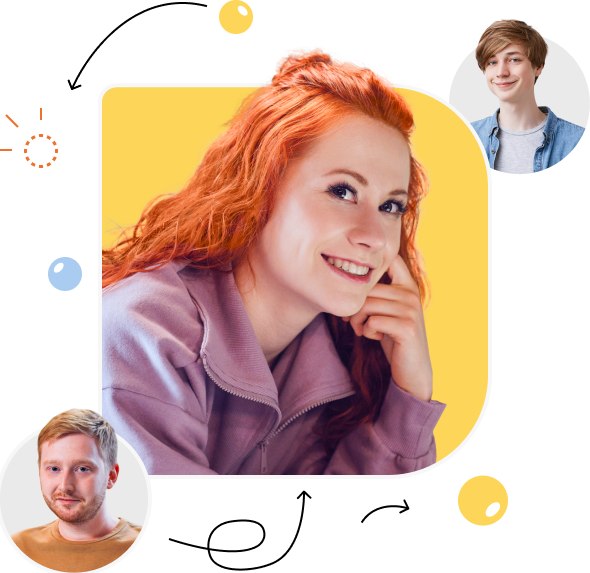
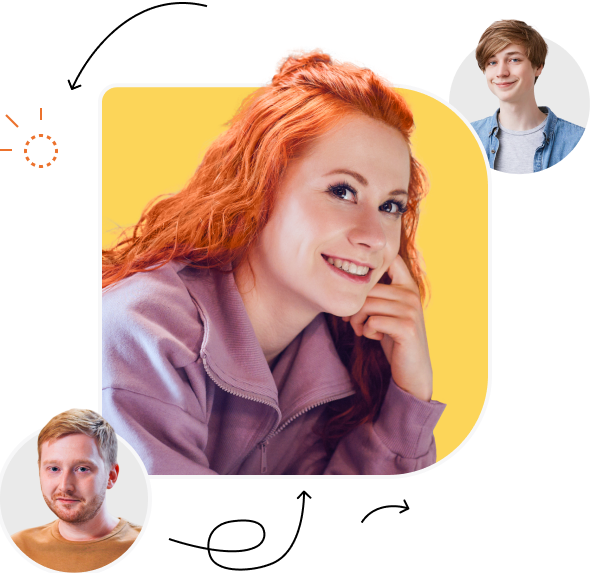
animation

Changed region(s): [[0.7627, 0.8307, 0.8847, 0.9197], [0.061, 0.445, 0.1525, 0.5044], [0.3661, 0.0, 0.4271, 0.0593]]

diff --git a/src/features/roles/roles-image.tsx b/src/features/roles/roles-image.tsx
@@ -1,0 +1,90 @@
+import { useEffect, useRef } from "react";
+import Image from "next/image";
+import RolesPeopleMentorImage from "@shared/assets/images/roles-peoples-mentor.png";
+import RolesPeopleReviewerImage from "@shared/assets/images/roles-peoples-reviewer.png";
+import { Role } from "./utils";
+
+import BubbleOneMentorImage from "@shared/assets/images/bubble-one-mentor.svg";
+import BubbleTwoMentorImage from "@shared/assets/images/bubble-two-mentor.svg";
+import BubbleThreeMentorImage from "@shared/assets/images/bubble-three-mentor.svg";
+
+import BubbleOneReviewerImage from "@shared/assets/images/bubble-one-reviewer.svg";
+import BubbleTwoReviewerImage from "@shared/assets/images/bubble-two-reviewer.svg";
+import BubbleThreeReviewerImage from "@shared/assets/images/bubble-three-reviewer.svg";
+
+import styles from "./roles-image.module.scss";
+import { cn } from "@shared/utils";
+
+export const RolesImage = (props: {
+  activeTab: Role.mentor | Role.reviewer;
+}) => {
+  const rolesImageRef = useRef<HTMLDivElement>(null);
+
+  useEffect(() => {
+    const observer = new IntersectionObserver(
+      ([entry]) => {
+        console.log({ entry });
+        rolesImageRef.current?.style.setProperty(
+          "--intersection-ratio",
+          entry.intersectionRatio.toString()
+        );
+      },
+      {
+        rootMargin: "-20% 0px -20% 0px",
+        threshold: new Array(100)
+          .fill(0)
+          .map((_, index, values) => index / values.length),
+      }
+    );
+
+    if (rolesImageRef.current) {
+      observer.observe(rolesImageRef.current);
+    }
+
+    return () => {
+      if (rolesImageRef.current) {
+        observer.unobserve(rolesImageRef.current);
+      }
+    };
+  }, []);
+
+  return (
+    <div ref={rolesImageRef} className={styles.rolesImage}>
+      {props.activeTab === Role.mentor && (
+        <Image src={RolesPeopleMentorImage} alt="" />
+      )}
+
+      {props.activeTab === Role.reviewer && (
+        <Image src={RolesPeopleReviewerImage} alt="" />
+      )}
+
+      {props.activeTab === Role.mentor && (
+        <>
+          <BubbleOneMentorImage
+            className={cn([styles.mentor, styles.bubble1])}
+          />
+          <BubbleTwoMentorImage
+            className={cn([styles.mentor, styles.bubble2])}
+          />
+          <BubbleThreeMentorImage
+            className={cn([styles.mentor, styles.bubble3])}
+          />
+        </>
+      )}
+
+      {props.activeTab === Role.reviewer && (
+        <>
+          <BubbleOneReviewerImage
+            className={cn([styles.reviewer, styles.bubble1])}
+          />
+          <BubbleTwoReviewerImage
+            className={cn([styles.reviewer, styles.bubble2])}
+          />
+          <BubbleThreeReviewerImage
+            className={cn([styles.reviewer, styles.bubble3])}
+          />
+        </>
+      )}
+    </div>
+  );
+};

diff --git a/src/features/roles/roles.tsx b/src/features/roles/roles.tsx
@@ -1,13 +1,10 @@
 import { FC, useState } from "react";
-import Image from "next/image";
-import RolesPeopleMentorImage from "@shared/assets/images/roles-peoples-mentor.png";
-import RolesPeopleReviewerImage from "@shared/assets/images/roles-peoples-reviewer.png";
 import RolesArrowImage from "@shared/assets/images/roles-arrow.svg";
-import { Typography } from "@shared/components";
-import { Tabs } from "@shared/components";
+import { Tabs, Typography } from "@shared/components";
 import { makeRolesTabsMap, Role } from "./utils";
 
 import styles from "./roles.module.scss";
+import { RolesImage } from "@features/roles/roles-image";
 
 export const tabs = makeRolesTabsMap([Role.mentor, Role.reviewer]);
 
@@ -19,15 +16,7 @@ export const Roles: FC = () => {
       <div className={styles.roles__arrow}>
         <RolesArrowImage />
       </div>
-      <div className={styles.roles__image}>
-        {activeTab === Role.mentor && (
-          <Image src={RolesPeopleMentorImage} alt="" />
-        )}
-
-        {activeTab === Role.reviewer && (
-          <Image src={RolesPeopleReviewerImage} alt="" />
-        )}
-      </div>
+      <RolesImage activeTab={activeTab} />
 
       <div className={styles.roles__tabs}>
         <Typography.Header className={styles.roles__header} level={2}>

diff --git a/src/features/roles/roles-image.module.scss b/src/features/roles/roles-image.module.scss
@@ -1,0 +1,38 @@
+@import "src/styles/mixins";
+
+.rolesImage {
+  position: relative;
+  height: 573px;
+
+  .bubble1, .bubble2, .bubble3 {
+    position: absolute;
+  }
+
+  .reviewer {
+    &.bubble1 {
+      @include bubbleAnimate(33px, 0px, 166px, 219px);
+    }
+
+    &.bubble2 {
+      @include bubbleAnimate(294px, 257px, 83px, 48px);
+    }
+
+    &.bubble3 {
+      @include bubbleAnimate(426px, 475px, 503px, 458px);
+    }
+  }
+
+  .mentor {
+    &.bubble1 {
+      @include bubbleAnimate(36px, 0px, 145px, 219px);
+    }
+
+    &.bubble2 {
+      @include bubbleAnimate(292px, 257px, 75px, 48px);
+    }
+
+    &.bubble3 {
+      @include bubbleAnimate(449px, 475px, 471px, 458px);
+    }
+  }
+}

diff --git a/src/styles/_mixins.scss b/src/styles/_mixins.scss
@@ -1,0 +1,7 @@
+@mixin bubbleAnimate($topStart, $topEnd, $leftStart, $leftEnd) {
+  $topDiff: $topEnd - $topStart;
+  $leftDiff: $leftEnd - $leftStart;
+
+  top: calc($topStart + $topDiff * var(--intersection-ratio));
+  left: calc($leftStart + $leftDiff * var(--intersection-ratio));
+}

diff --git a/src/features/roles/roles.module.scss b/src/features/roles/roles.module.scss
@@ -11,10 +11,6 @@
     height: 54px;
   }
 
-  &__image {
-    height: 573px;
-  }
-
   &__tabs {
     display: grid;
     gap: 40px;
